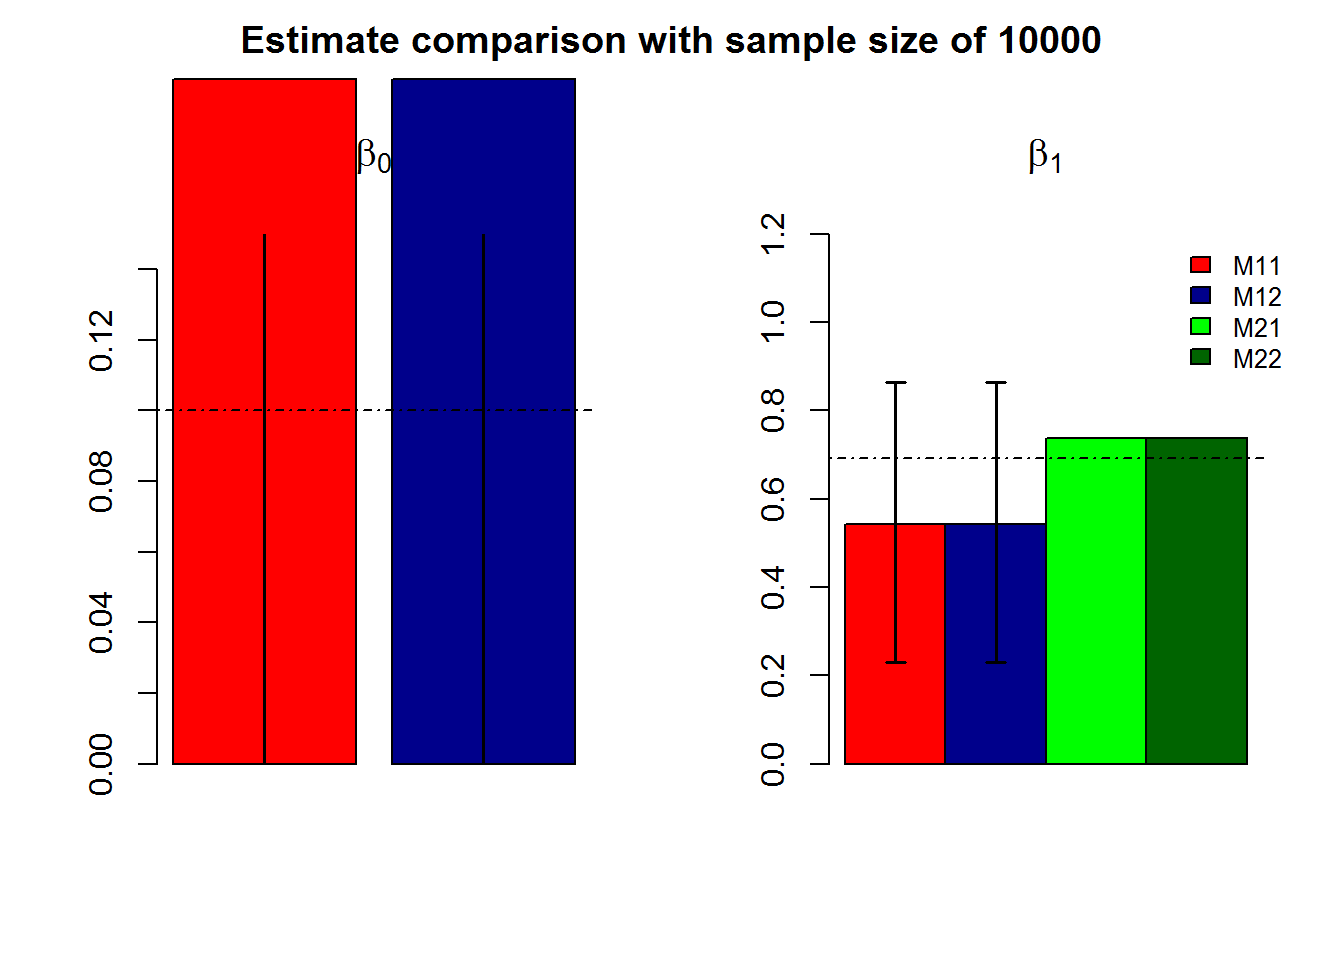
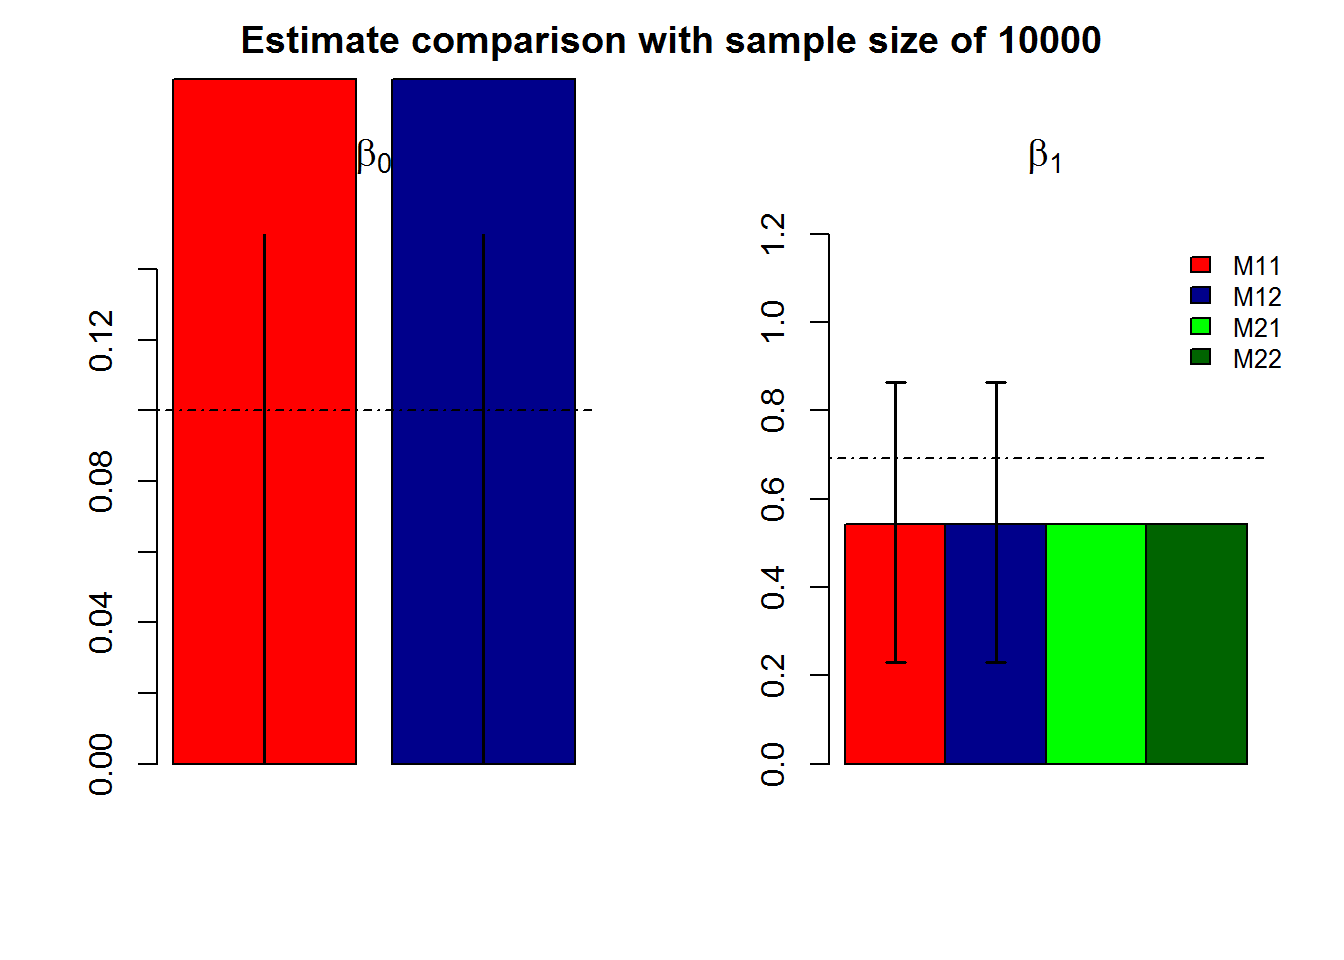
Apr242018

Changed region(s): [[0.75, 0.4375, 0.9375, 0.5625]]

diff --git a/docs/modeling.html b/docs/modeling.html
@@ -320,10 +320,10 @@ div.section {
 shared across the workflowr files. -->
 <!-- Update knitr chunk options -->
 <!-- Insert the date the file was last updated -->
-<p><strong>Last updated:</strong> 2018-04-19</p>
+<p><strong>Last updated:</strong> 2018-04-24</p>
 <!-- Insert the code version (Git commit SHA1) if Git repository exists and R
  package git2r is installed -->
-<p><strong>Code version:</strong> 8848023</p>
+<p><strong>Code version:</strong> d7b2ffa</p>
 <!-- Add your analysis here -->
 <div id="session-information" class="section level2">
 <h2>Session information</h2>
@@ -431,7 +431,7 @@ fit.conf=confint(fit)</code></pre>
 <li>sample size, i.e. number of windows <span class="math inline">\(N=10^4\)</span></li>
 <li>baseline rate is constant across all windows <span class="math inline">\(\mu_0=0.01\)</span>.</li>
 <li><span class="math inline">\(\beta_0=0.1, \beta_1=log(2)\)</span>.</li>
-<li>M11 and M12 are GLM without and with categorization; M21, M22 are optim without and with categorization.</li>
+<li>M11 and M12 are GLM without and with categorization; M21, M22 are optim without and with categorization. <span class="math inline">\(\widehat{\beta}_{11}=\widehat{\beta}_{12}\)</span> and <span class="math inline">\(\widehat{\beta}_{21}=\widehat{\beta}_{22}\)</span> and the difference between M11 and M21 are too minor to visualize</li>
 </ul>
 <pre><code>Waiting for profiling to be done...
 Waiting for profiling to be done...</code></pre>

diff --git a/docs/denovo-data.html b/docs/denovo-data.html
@@ -320,10 +320,10 @@ div.section {
 shared across the workflowr files. -->
 <!-- Update knitr chunk options -->
 <!-- Insert the date the file was last updated -->
-<p><strong>Last updated:</strong> 2018-04-17</p>
+<p><strong>Last updated:</strong> 2018-04-20</p>
 <!-- Insert the code version (Git commit SHA1) if Git repository exists and R
  package git2r is installed -->
-<p><strong>Code version:</strong> 0ca5d4a</p>
+<p><strong>Code version:</strong> d7b2ffa</p>
 <div id="samples" class="section level2">
 <h2>Samples</h2>
 <div id="case-samples" class="section level3">
